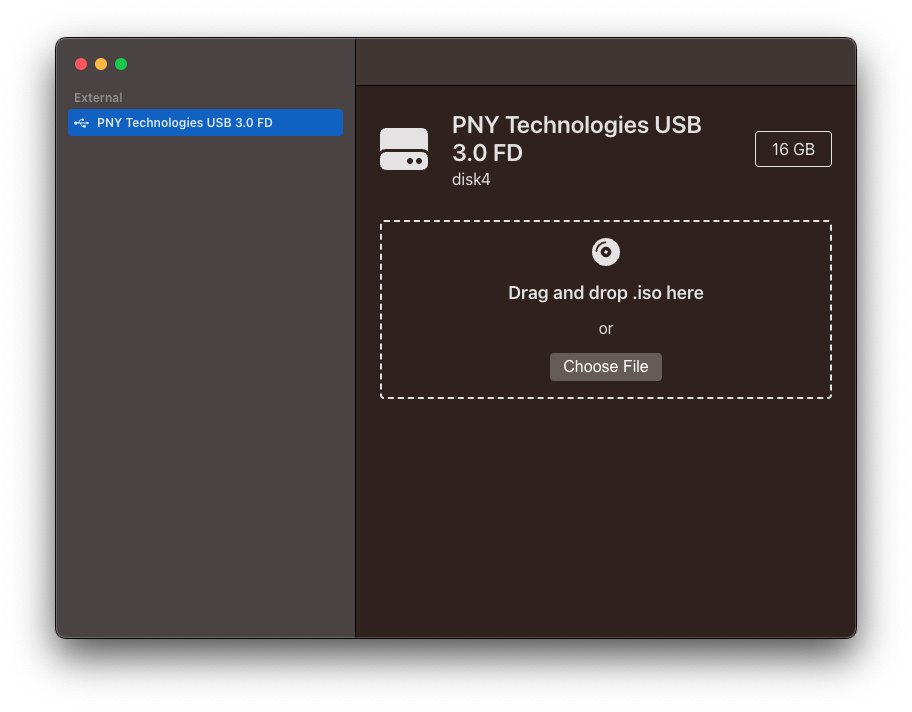
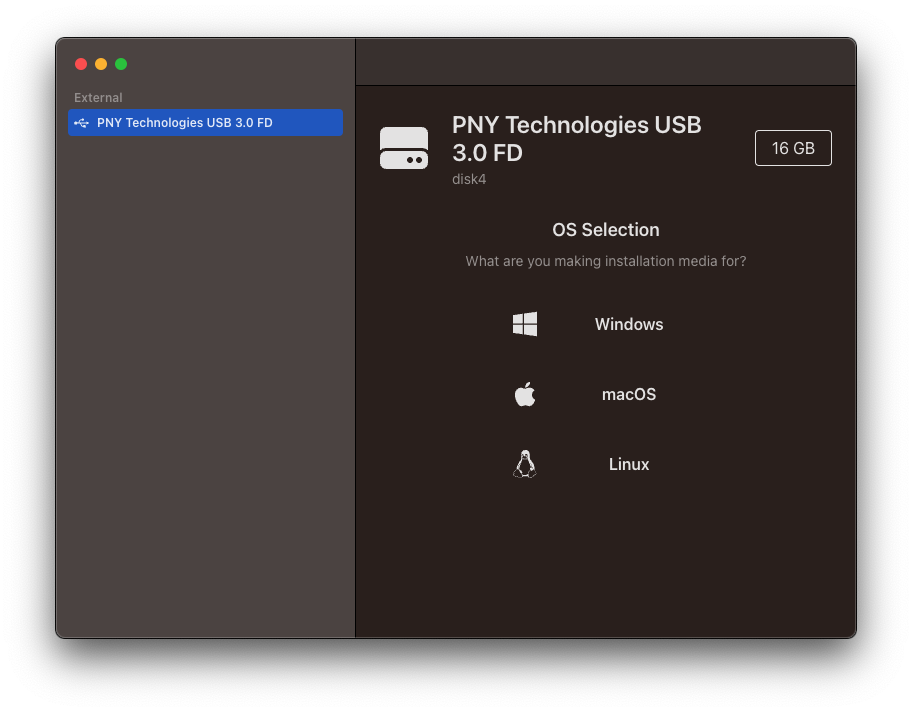
wip on new interface

diff --git a/src/components/drive/DriveSelectOS.vue b/src/components/drive/DriveSelectOS.vue
@@ -1,0 +1,110 @@
+<template>
+  <div class="drive-os-selection">
+    <div class="drive-os-selection-title">OS Selection</div>
+    <div class="drive-os-selection-extra">
+      What are you making installation media for?
+    </div>
+
+    <div class="drive-os-selection-targets">
+      <div
+        v-for="target of mediaTargets"
+        :key="target.id"
+        class="drive-os-selection-target"
+        @click="$emit('selectedOs', target.id)"
+      >
+        <font-awesome-icon
+          class="drive-os-selection-target-icon"
+          :icon="target.icon"
+        />
+
+        <div style="width: 100%">
+          <p class="drive-os-selection-target-title">{{ target.id }}</p>
+        </div>
+      </div>
+    </div>
+  </div>
+</template>
+
+<script lang="ts">
+import { defineComponent } from 'vue';
+
+export default defineComponent({
+  name: 'DriveSelectOS',
+
+  emits: ['selectedOs'],
+
+  data() {
+    return {
+      mediaTargets: [
+        {
+          id: 'Windows',
+          icon: ['fab', 'windows'],
+        },
+        {
+          id: 'macOS',
+          icon: ['fab', 'apple'],
+        },
+        {
+          id: 'Linux',
+          icon: ['fab', 'linux'],
+        },
+      ],
+    };
+  },
+});
+</script>
+
+<style scoped>
+.drive-os-selection {
+  display: flex;
+  flex-direction: column;
+  justify-content: center;
+  align-items: center;
+}
+
+.drive-os-selection-title {
+  font-weight: 600;
+  text-align: center;
+  margin-bottom: 12px;
+  font-size: 18px;
+}
+
+.drive-os-selection-extra {
+  text-align: center;
+  font-size: 14px;
+  color: var(--text-2);
+  margin-bottom: 24px;
+}
+
+.drive-os-selection-targets {
+  align-self: center;
+  display: flex;
+  flex-direction: column;
+  gap: 8px;
+}
+
+.drive-os-selection-target {
+  width: 200px;
+  display: flex;
+  gap: 8px;
+  align-items: center;
+  cursor: pointer;
+  border-radius: 8px;
+  padding: 6px 12px;
+  transition: background 0.1s ease;
+}
+
+.drive-os-selection-target:hover {
+  background: var(--hover-1);
+}
+
+.drive-os-selection-target-icon {
+  font-size: 28px;
+  flex-basis: 50px;
+}
+
+.drive-os-selection-target-title {
+  text-align: center;
+  font-weight: 600;
+}
+</style>

diff --git a/src/components/drive/Drive.vue b/src/components/drive/Drive.vue
@@ -40,18 +40,26 @@
         <div class="drive-done-extra">{{ drive.flashingProgress.error }}</div>
       </template>
 
-      <!-- Choosing file -->
+      <!-- Choosing OS / source -->
       <template v-else-if="!drive.flashing && !drive.doneFlashing">
-        <IsoSelector @file-change="handleFileChange" />
+        <template v-if="!chosenOS">
+          <DriveSelectOS @selected-os="chosenOS = $event" />
+        </template>
+        <template v-else>
+          <IsoSelector
+            v-if="chosenOS === 'Windows'"
+            @file-change="handleFileChange"
+          />
+        </template>
 
-        <!-- {{ drive.flashing }} -->
+        <!-- <IsoSelector @file-change="handleFileChange" />
 
         <div
           v-if="drive.isoFile"
           :style="{ display: 'grid', placeItems: 'center' }"
         >
           <button @click="handleStartFlash">Start Flash</button>
-        </div>
+        </div> -->
       </template>
 
       <!-- Flashing -->
@@ -81,6 +89,7 @@ import { defineComponent, PropType } from 'vue';
 import prettyBytes from 'pretty-bytes';
 import Drive from '@/api/Drive';
 import { t_file } from '@/types/iso';
+import DriveSelectOS from '@/components/drive/DriveSelectOS.vue';
 import IsoSelector from '@/components/iso-selector/IsoSelector.vue';
 import Flashing from '@/components/drive/Flashing.vue';
 
@@ -88,6 +97,7 @@ export default defineComponent({
   name: 'Drive',
 
   components: {
+    DriveSelectOS,
     IsoSelector,
     Flashing,
   },
@@ -97,6 +107,12 @@ export default defineComponent({
       type: Object as PropType<Drive>,
       required: true,
     },
+  },
+
+  data() {
+    return {
+      chosenOS: '',
+    };
   },
 
   computed: {

diff --git a/src/main.ts b/src/main.ts
@@ -1,31 +1,47 @@
 import { createApp } from 'vue';
 import { createPinia } from 'pinia';
+
+// Icons
 import { library } from '@fortawesome/fontawesome-svg-core';
 import { FontAwesomeIcon } from '@fortawesome/vue-fontawesome';
+// Solid
 import {
+  faChevronUp,
+  faCircleCheck,
+  faCompactDisc,
   faFloppyDisk,
   faHardDrive,
-  faCompactDisc,
-  faXmark,
-  faCircleCheck,
-  faChevronUp,
   faTriangleExclamation,
+  faXmark,
 } from '@fortawesome/free-solid-svg-icons';
+// Regular
 import { faHardDrive as faRegHardDrive } from '@fortawesome/free-regular-svg-icons';
-import { faUsb, faWindows } from '@fortawesome/free-brands-svg-icons';
+// Brands
+import {
+  faApple,
+  faLinux,
+  faUsb,
+  faWindows,
+} from '@fortawesome/free-brands-svg-icons';
+
 import App from './App.vue';
 
 library.add(
-  faUsb,
+  // Solid
+  faChevronUp,
+  faCircleCheck,
+  faCompactDisc,
   faFloppyDisk,
   faHardDrive,
-  faRegHardDrive,
-  faCompactDisc,
-  faXmark,
-  faCircleCheck,
-  faWindows,
-  faChevronUp,
   faTriangleExclamation,
+  faXmark,
+  // Regular
+  faRegHardDrive,
+  // Brands
+  faApple,
+  faLinux,
+  faUsb,
+  faWindows,
 );
 
 createApp(App)

diff --git a/src/api/Drive.ts b/src/api/Drive.ts
@@ -31,6 +31,7 @@ export default class Drive {
     this._stderrHandler = this._stderrHandler.bind(this);
     this._activityHandler = this._activityHandler.bind(this);
     this._etaHandler = this._etaHandler.bind(this);
+    this._doneHandler = this._doneHandler.bind(this);
 
     this._registerIpcEvents();
   }
@@ -56,10 +57,6 @@ export default class Drive {
           e instanceof Error ? e.message : String(e);
       }
     }
-  }
-
-  destroy() {
-    this._removeIpcEvents();
   }
 
   /**
@@ -159,9 +156,8 @@ export default class Drive {
   }
 
   _doneHandler() {
-    console.log('got to done');
     this.flashing = false;
     this.doneFlashing = true;
-    this.destroy();
+    this._removeIpcEvents();
   }
 }

diff --git a/src/App.vue b/src/App.vue
@@ -54,9 +54,13 @@ export default defineComponent({
   --sidebar-width: 300px;
 
   /* Content */
-  --content-color: #2f211d;
+  /* --content-color: rgba(47, 33, 29, 1); */
+  --content-color: hsl(14, 22%, 15%);
+
   --text-1: rgba(255, 255, 255, 0.87);
   --text-2: rgba(255, 255, 255, 0.5);
+
+  --hover-1: hsl(14, 18%, 18%);
 
   font-family: -apple-system, BlinkMacSystemFont, sans-serif;
 
